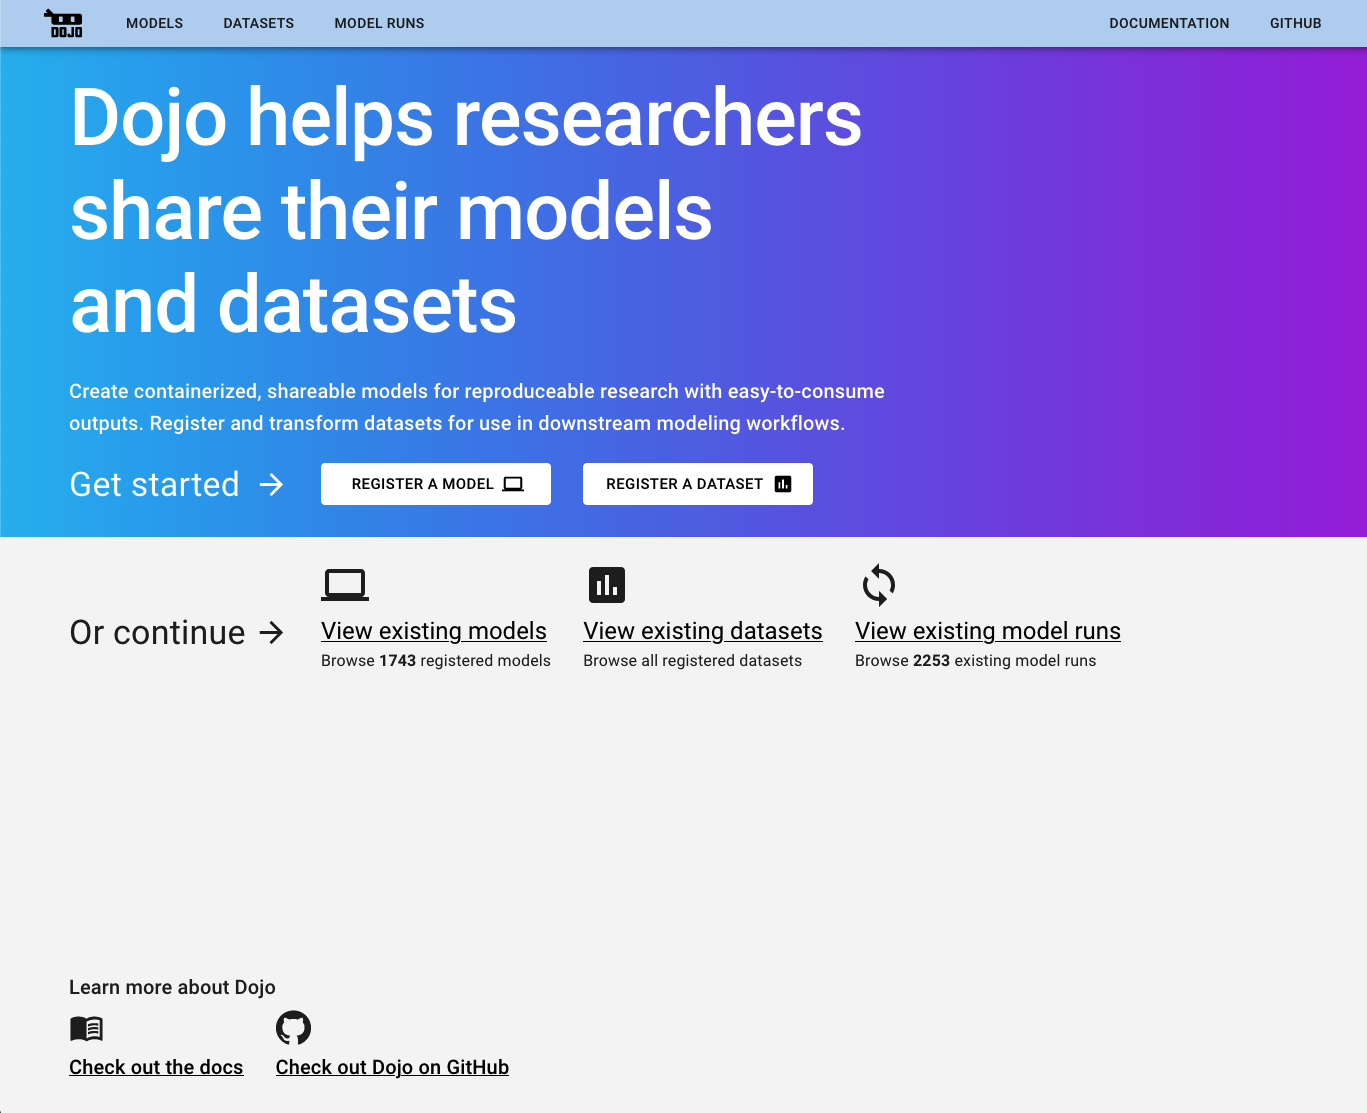
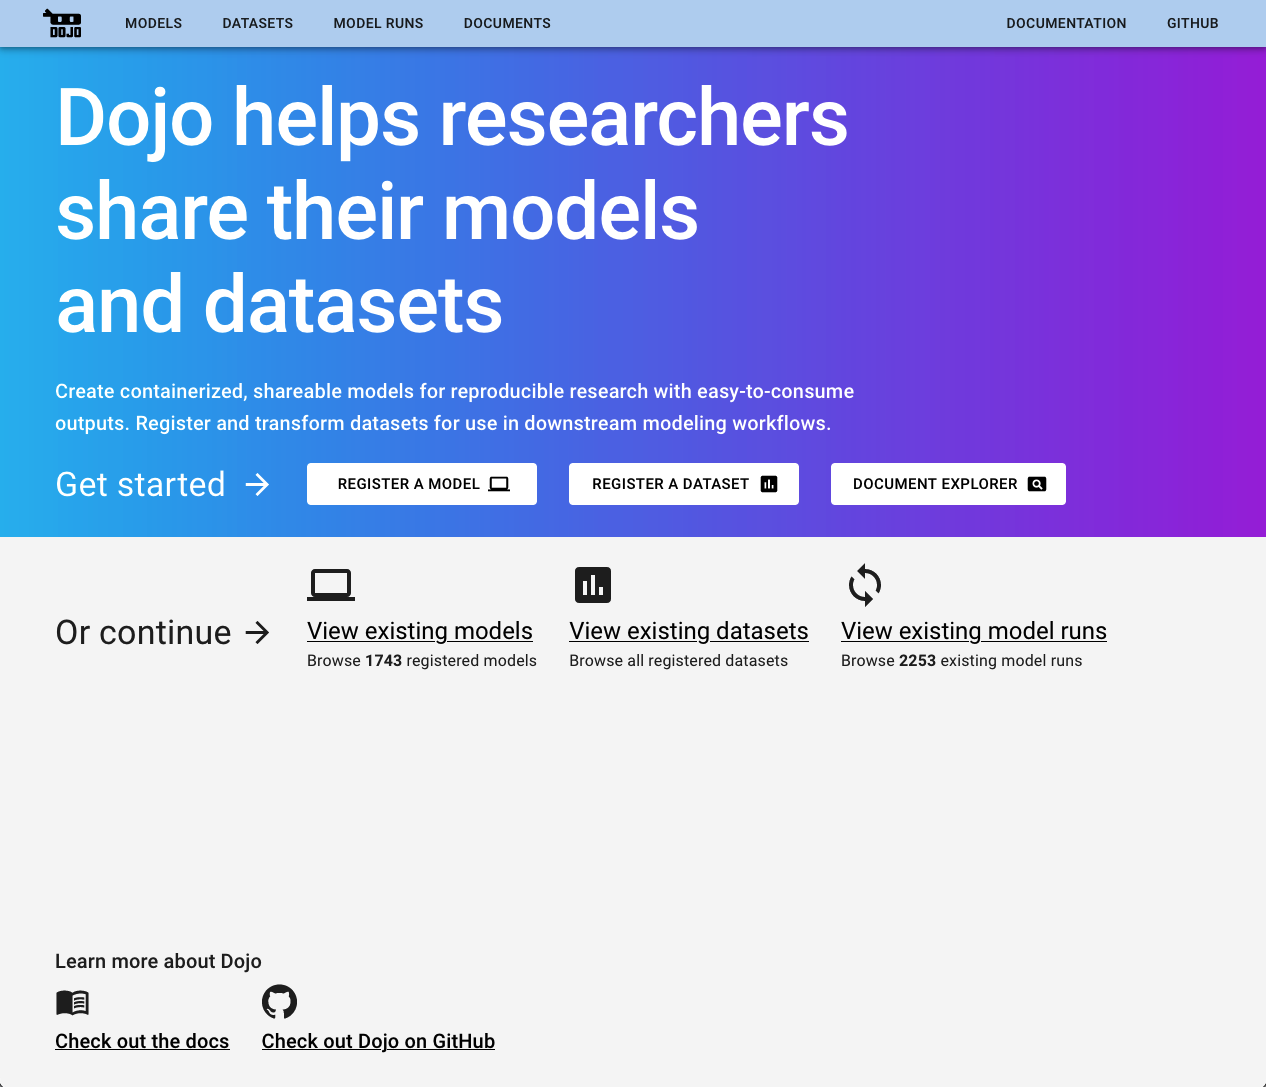
Documentation Updates for Data Transformation & Document Explorer/Uploader (#21)
* Adds basic Data Transformation documentation

* Typo in imgs directory name

* Word choice

* Change highlighting of sub header

* Adds documents docs

* landing page tweak

* another minor landing page edit

* Undoing last change

* Fixes images in documents

* Adds more document images

* Typo in image name

diff --git a/data-registration.md b/data-registration.md
@@ -32,14 +32,14 @@ has_toc: true
 
 ## Getting started
 
-The data registration workflow currently support registering 4 data types:
+The data registration workflow currently supports 4 data types:
 
 * CSV
 * Excel
 * NetCDF
 * GeoTIFF
 
-You may begin by navigating to [dojo-modeling.com](https://dojo-modeling.com) and selecting Data registration. Please reach out to [dojo@jataware.com](mailto:dojo@jataware.com) for credentials or help with the application. From there you will be asked for basic metadata about your dataset.
+You can register a dataset by clicking the Register a Dataset link on the Dojo landing page or above the list of all existing datasets. Please reach out to [dojo@jataware.com](mailto:dojo@jataware.com) for credentials or help with the application. From there you will be asked for basic metadata about your dataset.
 
 > Please provide as much information as possible throughout the data registration process to ensure that sufficient information is available to end-users of your dataset.
 
@@ -106,7 +106,7 @@ The user can then select the relevant year, month and day columns as well as ens
 
 Generally speaking, if a dataset has latitude and longitude in it we should annotate this and ignore the other geospatial information (unless they are [qualifiers](#qualifiers)) as this is the most granular location information available and can be used to geocode the remainder of the dataset.
 
-However, latitude and longitude are not typically contained in the same column. So, we provide a mechanism for the user to associate a `latitude` with a `longitude` and vice versa. To do this, you indicate that the column `is part of a coordinate pair` and choose it's partner from the dropdown.
+However, latitude and longitude are not typically contained in the same column. So, we provide a mechanism for the user to associate a `latitude` with a `longitude` and vice versa. To do this, you indicate that the column `is part of a coordinate pair` and choose its partner from the dropdown.
 
 ![Coordinate pair](imgs/coordinate-pair.png)
 
@@ -173,9 +173,62 @@ These statistics are intended to provide the user the ability to perform quality
 
 ![Stats](imgs/stats.png)
 
-## Transforming the dataset
+## Manual Data Transformations
 
-When you have completed annotating your dataset you should have at least one feature annotated as well as a primary geography and date. If no primary `Date` or `Geo` information was provided, we do our best to identify what _might_ have been `primary` based on the user's annotations.
+Before we process your dataset, you can pare down your data with our manual Data Transformations step. Some large datasets may take a long time in the processing step, so if some of the information contained is not relevant (e.g. the dataset covers 1990-2020, and you are only concerned with 2000-2020), you can use our transformation tools to do a few select adjustments to speed up the process. You can choose to do as many or as few of these as you'd like.
+
+![Transform data](imgs/transform-data.png)
+
+For each transformation, after you've made your selections, you'll be able to preview what effect your changes will have on the dataset with the Preview panel under the tool. Make your changes and the **Preview** button should become enabled (except in the case of Temporal Coverage, where you'll need to click 'Crop Coverage' before the Preview button will work).
+
+![Transformation preview](imgs/transformation-preview.png)
+
+None of the changes in the transformation panels will take effect until you click **NEXT** at the bottom of the page.
+
+If your dataset meets certain qualifications, you can do the following:
+
+### Adjust Geospatial Resolution
+
+If your dataset has uniform geospatial data, you can use this tool to expand the geospatial resolution. You will also need to select one of the following aggregation functions:
+
+* Conservative: Conservative remapping, suitable for preserving the total value of the field (e.g., mass, population, water fluxes).
+* Sum: Sum remapping, suitable for fields representing accumulated quantities (e.g., precipitation, snowfall, radiation fluxes).
+* Minimum: Minimum remapping, suitable for fields where you want to preserve the minimum value within an area (e.g., minimum temperature, lowest pressure).
+* Maximum: Maximum remapping, suitable for fields where you want to preserve the maximum value within an area (e.g., peak wind speeds, maximum temperature).
+* Median: Median remapping, suitable for fields where you want to preserve the central tendency of the data, while being less sensitive to extreme values (e.g., median income, median precipitation).
+* Average: Average remapping, suitable for fields representing average quantities (e.g., temperature, humidity, wind speed).
+* Bilinear: Bilinear interpolation, suitable for smooth fields (e.g., temperature, pressure, geopotential height).
+* Bicubic: Bicubic interpolation, suitable for smooth fields with higher-order accuracy (e.g., temperature, pressure, geopotential height).
+* Nearest Neighbor: Nearest neighbor remapping, suitable for categorical data (e.g., land use types, soil types, vegetation types).
+
+### Select Geospatial Coverage
+
+With this tool you can draw shapes on a map to clip your geospatial data.
+
+### Adjust Temporal Coverage
+
+If your dataset has uniform temporal coverage, this tool can change the temporal resolution (e.g. from day to weekly). Similar to geospatial resolution, you will need to select one of the following aggregation functions:
+
+* Count
+* Size
+* Sum
+* Mean
+* Std
+* Var
+* Sem
+* Min
+* Max
+* First
+* Last
+
+### Select Temporal Coverage
+
+This tool allows you to select new start and end dates to crop the time that your dataset covers.
+
+
+## Processing the dataset
+
+When you have finished annotating your dataset you should have at least one feature annotated as well as a primary geography and date. If no primary `Date` or `Geo` information was provided, we do our best to identify what _might_ have been `primary` based on the user's annotations.
 
 We then transform the dataset into a ready-to-use format. This process may take some time, depending on what is required. If the dataset is quite large and requires reverse geocoding latitude and longitudes into admin 0 through 3 (using GADM) it could take up to a few minutes.
 

diff --git a/index.md b/index.md
@@ -9,7 +9,19 @@ has_toc: true
     <img src="imgs/Dojo_Logo_profile.png" width="200px"/> 
 </a>
 
-Dojo ([https://github.com/dojo-modeling](https://github.com/dojo-modeling)) is a suite of software tools that allows domain experts to register their models using an intuitive web based terminal emulator. Dojo models can be executed via a standardized, expressive API by wrapping heterogenous models into a consistent interface for parameterization and transforming model outputs into a consistent, easy to consume format. Dojo models facilitate reproducible research by enabling modelers to containerize and share their models with guarantees that the model will perform as they expect outside their own compute environment. Additionally, Dojo provides a mechanism for analysts and domain experts to register and transform datasets for use in downstream modeling workflows.
+Dojo ([https://github.com/dojo-modeling](https://github.com/dojo-modeling)) is a suite of software tools that enables domain experts to do three things:
+
+##### Register and Execute Models
+
+Modelers can register their models using Dojo's intuitive web based terminal emulator. Models can be executed via a standardized, expressive API by wrapping heterogenous models into a consistent interface for parameterization and transforming model outputs into a consistent, easy to consume format. Dojo models facilitate reproducible research by enabling modelers to containerize and share their models with guarantees that the model will perform as they expect outside their own compute environment.
+
+##### Register and Transform Datasets
+
+Dojo provides a mechanism for analysts and domain experts to register and transform datasets for use in downstream modeling workflows.
+
+##### Upload and Search Documents
+
+Dojo also includes a document uploader and explorer, which is a means to manage an organization’s knowledge and leverage it inside index model analysis workflows. Users can upload PDFs that are relevant to their analysis in order to surface them as evidence during the creation of an index model. Dojo offers a semantic search capability over these documents which unlocks the ability to discover information across thousands of PDF documents with ease.
 
 ![Landing Page](imgs/landing-page.png)
 
@@ -18,7 +30,8 @@ Dojo ([https://github.com/dojo-modeling](https://github.com/dojo-modeling)) is a
 1. [Model Registration](./model-registration.md)
 2. [Data Registration](./data-registration.md)
 3. [Model Execution](./model-execution.md)
-4. [Dojo API](./dojo-api.md)
+4. [Documents](./documents)
+5. [Dojo API](./dojo-api.md)
 
 ## Model Registration
 
@@ -47,6 +60,10 @@ Normalizing data and model outputs to a consistent Geotemporal format facilitate
 ## Model Execution
 
 This section provides information on how to use Dojo's model execution CLI. This tool enables users to execute Dojo models locally via Docker.
+
+## Documents
+
+This tool enables users to upload and search through large numbers of PDF documents.
 
 ## Dojo API
 

diff --git a/documents.md b/documents.md
@@ -1,0 +1,34 @@
+---
+layout: default
+title: Documents
+nav_order: 5
+---
+
+# Documents
+
+## Document Uploader
+
+You can access the Document Uploader by clicking the `Document Explorer` link on the Dojo home page or the `Documents` tab in the navbar from anywhere on the site, and then clicking the blue `Upload Documents` button just below the search bar on the right.
+
+The Document Uploader allows you to upload PDFs to Dojo so that they can then be processed for future searching in the Document Explorer. It uses a simple drag and drop or file explorer interface to upload up to 10 files at a time.
+
+![Document Explorer Upload](imgs/document-explorer-upload.png)
+
+Once you've selected your files, you can annotate the metadata for each of your PDFs. Dojo may infer some of the metadata from the files themselves, but you can change these generated fields as you go through your annotations.
+
+After you're done with your annotations, click `Upload All` to complete the upload process.
+
+![Document Explorer Annotate](imgs/document-explorer-annotate.png)
+
+
+## Document Explorer
+
+The Document Explorer allows you to view all the documents in the system in a sortable table format. If you click on any row, you'll see the details of the specific document displayed as a pop up dialog. This will include whatever metadata the uploader added with their annotation.
+
+![Document Explorer Table](imgs/document-explorer-table.png)
+
+The search bar above the table performs a semantic search, which means it attempts to understand the context and intent behind your query, rather than merely matching keywords. Consequently, when you use it, you are returned a list of results from the document database that are not just relevant but are tailored to your search criteria, providing more accurate and meaningful results. Each result is accompanied by a hit percentage, which indicates the degree of match between your query and the content of the document, offering you an additional measure of relevance.
+
+As with the basic table before the search, if you click on any of the search results, you will see the full details of the PDF.
+
+![Document Explorer Search](imgs/document-explorer-search.png)

diff --git a/dojo-api.md b/dojo-api.md
@@ -1,7 +1,7 @@
 ---
 layout: default
 title: Dojo API
-nav_order: 5
+nav_order: 6
 has_toc: true
 ---
 
